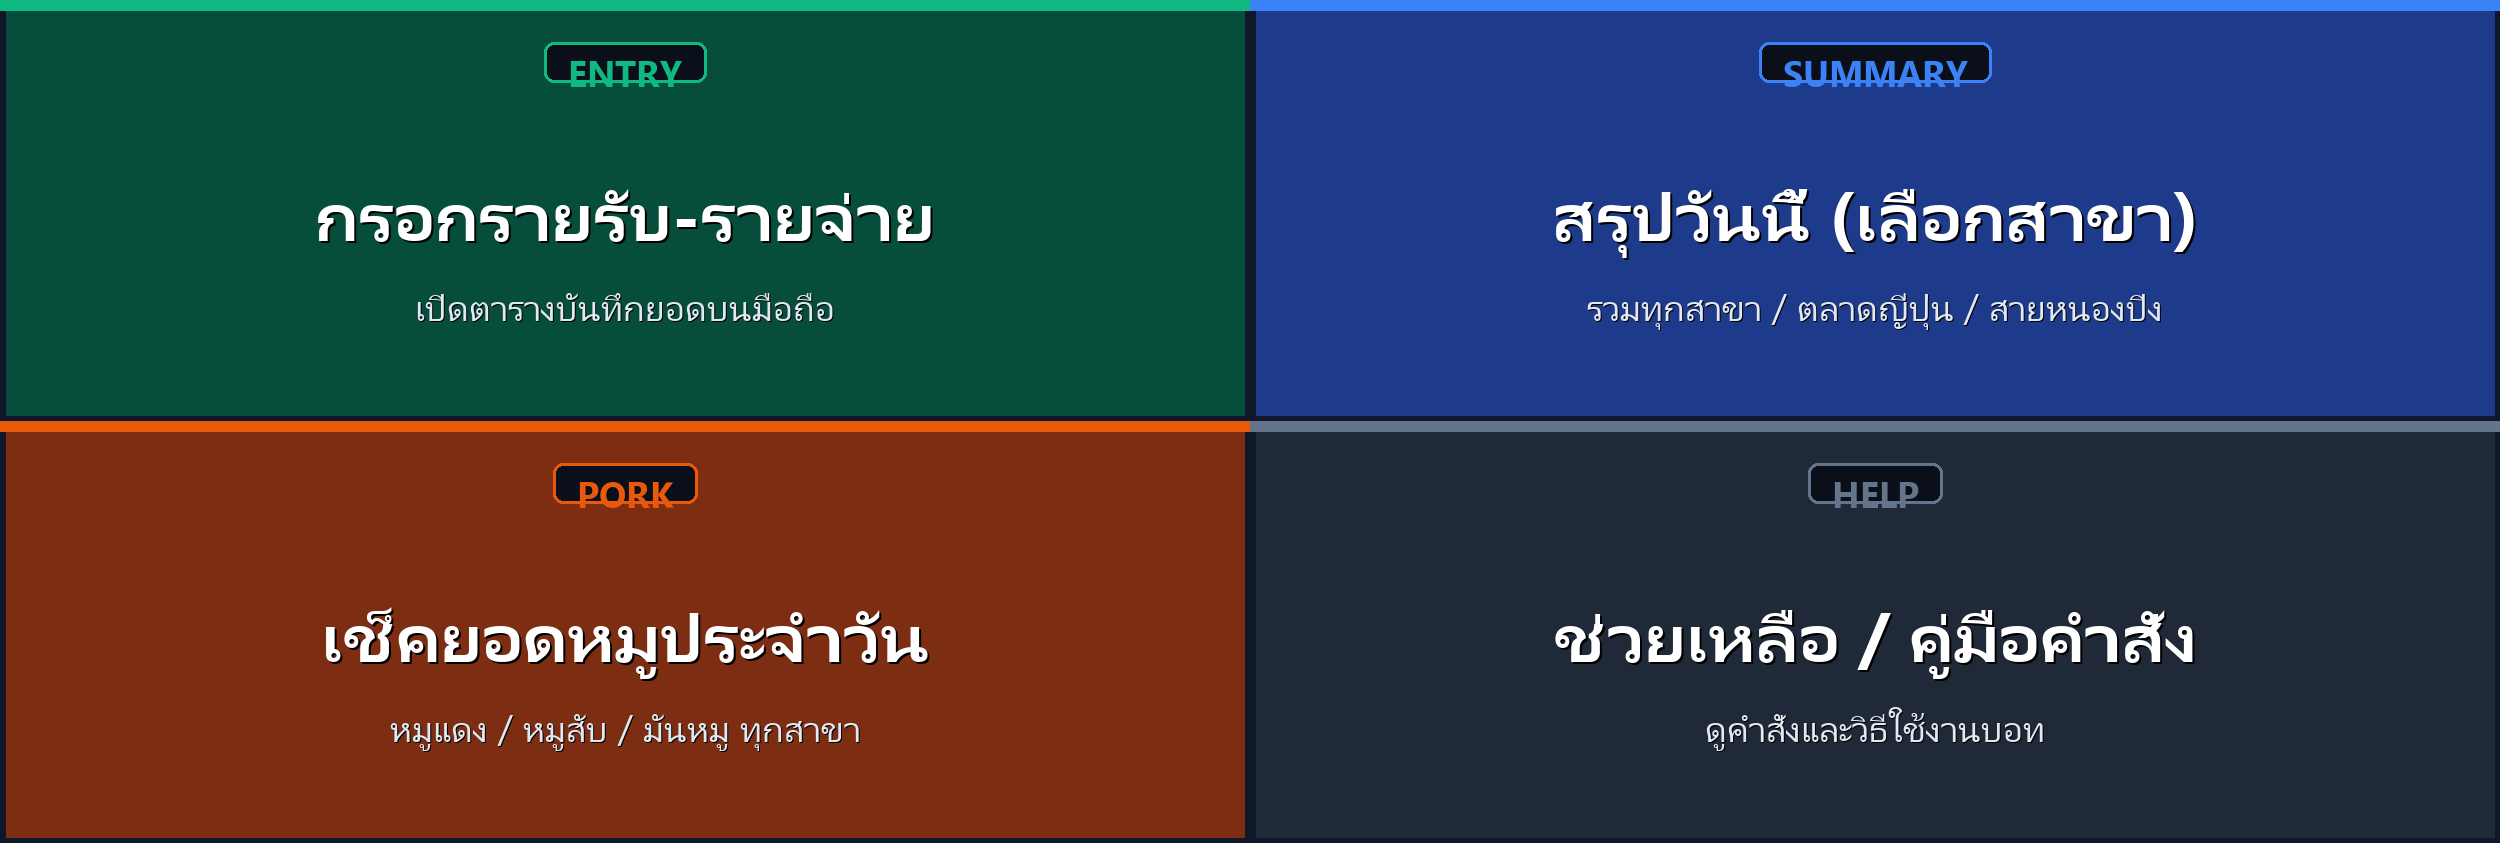
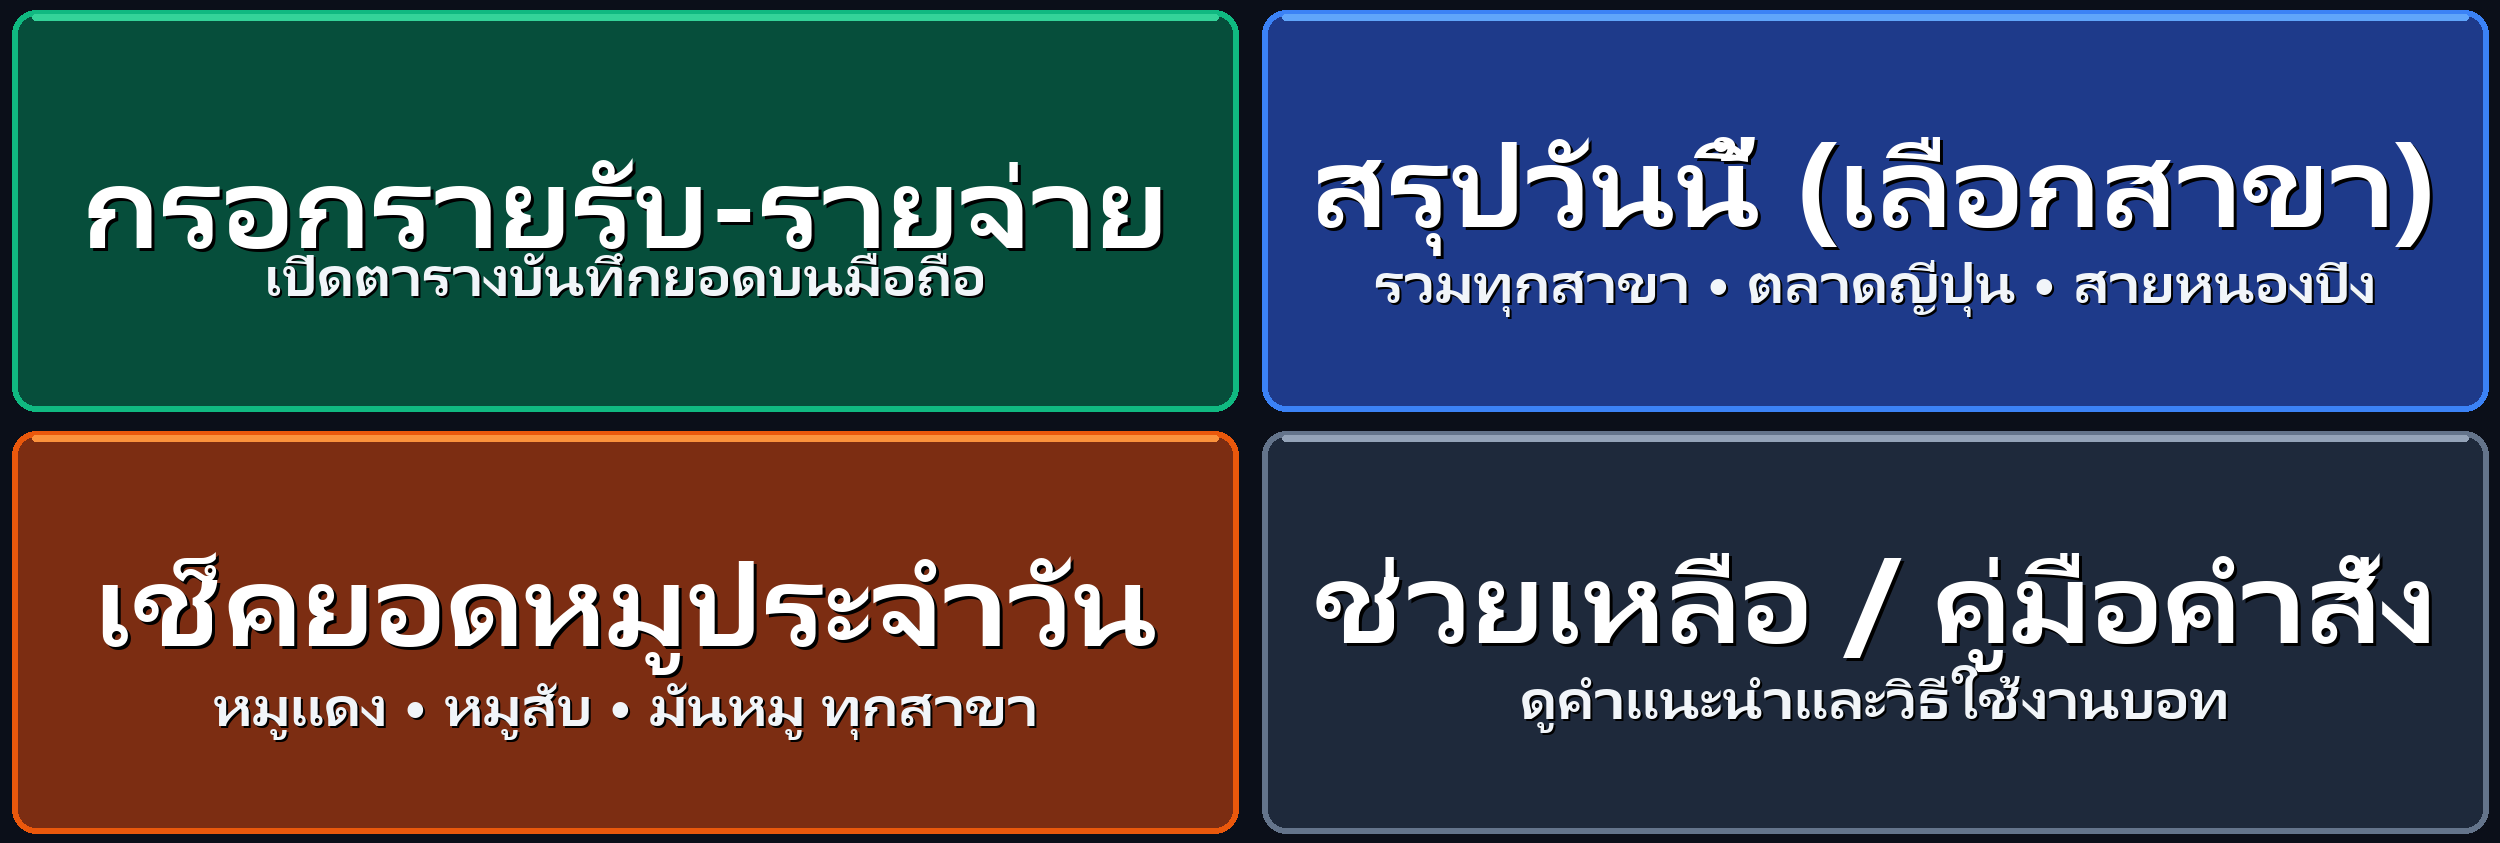
feat(richmenu): enlarge typography and tighten button frame fit

Changed region(s): [[0.0, 0.0, 1.0, 1.0]]

diff --git a/src/lib/services/line-richmenu.service.ts b/src/lib/services/line-richmenu.service.ts
@@ -14,7 +14,7 @@ export function getRichMenuDefinition() {
   return {
     size: { width: 2500, height: 843 },
     selected: true,
-    name: "ร้านครูตอม Main Menu v5 (Branch Selector)",
+    name: "ร้านครูตอม Main Menu v6 (Large Font Grid)",
     chatBarText: "📌 เมนูร้านครูตอม",
     areas: [
       // Tile 1: 📝 กรอกรายรับ-รายจ่าย (Top Left)

diff --git a/scripts/generate-richmenu.py b/scripts/generate-richmenu.py
@@ -11,33 +11,33 @@ def generate_rich_menu_image(output_path='public/richmenu.png'):
         {
             'title': 'กรอกรายรับ-รายจ่าย',
             'sub': 'เปิดตารางบันทึกยอดบนมือถือ',
-            'badge': 'ENTRY',
             'bg': '#064e3b',
-            'accent': '#10b981',
+            'border': '#10b981',
+            'accent': '#34d399',
             'col': 0, 'row': 0
         },
         {
             'title': 'สรุปวันนี้ (เลือกสาขา)',
-            'sub': 'รวมทุกสาขา / ตลาดญี่ปุ่น / สายหนองปิง',
-            'badge': 'SUMMARY',
+            'sub': 'รวมทุกสาขา • ตลาดญี่ปุ่น • สายหนองปิง',
             'bg': '#1e3a8a',
-            'accent': '#3b82f6',
+            'border': '#3b82f6',
+            'accent': '#60a5fa',
             'col': 1, 'row': 0
         },
         {
             'title': 'เช็คยอดหมูประจำวัน',
-            'sub': 'หมูแดง / หมูสับ / มันหมู ทุกสาขา',
-            'badge': 'PORK',
+            'sub': 'หมูแดง • หมูสับ • มันหมู ทุกสาขา',
             'bg': '#7c2d12',
-            'accent': '#ea580c',
+            'border': '#ea580c',
+            'accent': '#fb923c',
             'col': 0, 'row': 1
         },
         {
             'title': 'ช่วยเหลือ / คู่มือคำสั่ง',
-            'sub': 'ดูคำสั่งและวิธีใช้งานบอท',
-            'badge': 'HELP',
-            'bg': '#1f2937',
-            'accent': '#64748b',
+            'sub': 'ดูคำแนะนำและวิธีใช้งานบอท',
+            'bg': '#1e293b',
+            'border': '#64748b',
+            'accent': '#94a3b8',
             'col': 1, 'row': 1
         }
     ]
@@ -49,56 +49,59 @@ def generate_rich_menu_image(output_path='public/richmenu.png'):
     if not os.path.exists(font_path_bold):
         font_path_bold = 'C:/Windows/Fonts/tahomabd.ttf'
 
-    font_path_reg = 'C:/Windows/Fonts/LeelawUI.ttf'
-    if not os.path.exists(font_path_reg):
-        font_path_reg = 'C:/Windows/Fonts/tahoma.ttf'
-
-    f_badge = ImageFont.truetype(font_path_bold, 36)
-    f_title = ImageFont.truetype(font_path_bold, 70)
-    f_sub = ImageFont.truetype(font_path_reg, 38)
+    # Prominent headline typography fitting button frames
+    f_title = ImageFont.truetype(font_path_bold, 122)
+    f_sub = ImageFont.truetype(font_path_bold, 58)
 
     for t in tiles:
         x1 = col_x[t['col']]
         x2 = col_x[t['col'] + 1]
         y1 = row_y[t['row']]
         y2 = row_y[t['row'] + 1]
-        cx = (x1 + x2) // 2
 
-        # Tile background
-        draw.rectangle([x1, y1, x2, y2], fill=t['bg'], outline='#0f172a', width=6)
-        
-        # Accent top bar
-        draw.rectangle([x1, y1, x2, y1 + 10], fill=t['accent'])
+        # Inset padding to give clean button frames
+        pad_x = 12
+        pad_y = 10
+        bx1 = x1 + pad_x
+        bx2 = x2 - pad_x
+        by1 = y1 + pad_y
+        by2 = y2 - pad_y
+        cx = (bx1 + bx2) // 2
 
-        # 1. Badge
-        b_text = t['badge']
-        bbox_b = draw.textbbox((0, 0), b_text, font=f_badge)
-        bw = bbox_b[2] - bbox_b[0]
-        bh = bbox_b[3] - bbox_b[1]
-        by1 = y1 + 42
-        bx1 = cx - bw // 2 - 24
-        bx2 = cx + bw // 2 + 24
-        by2 = by1 + bh + 14
-        draw.rounded_rectangle([bx1, by1, bx2, by2], radius=10, fill='#0b0f19', outline=t['accent'], width=3)
-        draw.text((cx - bw // 2, by1 + 6), b_text, fill=t['accent'], font=f_badge)
+        # Draw button card with rounded corners and border
+        draw.rounded_rectangle([bx1, by1, bx2, by2], radius=24, fill=t['bg'], outline=t['border'], width=6)
 
-        # 2. Title
+        # Top accent highlight bar inside button card
+        draw.rounded_rectangle([bx1 + 20, by1 + 4, bx2 - 20, by1 + 10], radius=3, fill=t['accent'])
+
+        # Calculate bounding boxes
         bbox_t = draw.textbbox((0, 0), t['title'], font=f_title)
         tw = bbox_t[2] - bbox_t[0]
-        title_y = y1 + 165
-        draw.text((cx - tw // 2 + 2, title_y + 2), t['title'], fill='#000000', font=f_title)
-        draw.text((cx - tw // 2, title_y), t['title'], fill='#FFFFFF', font=f_title)
+        th = bbox_t[3] - bbox_t[1]
 
-        # 3. Subtitle
         bbox_s = draw.textbbox((0, 0), t['sub'], font=f_sub)
         sw = bbox_s[2] - bbox_s[0]
-        sub_y = y1 + 280
-        draw.text((cx - sw // 2 + 1, sub_y + 1), t['sub'], fill='#000000', font=f_sub)
-        draw.text((cx - sw // 2, sub_y), t['sub'], fill='#E2E8F0', font=f_sub)
+        sh = bbox_s[3] - bbox_s[1]
+
+        gap = 26
+        total_text_h = th + gap + sh
+
+        # Vertically center text in the button frame
+        start_y = by1 + (by2 - by1 - total_text_h) // 2 - 14
+        title_y = start_y
+        sub_y = title_y + th + gap
+
+        # Title with subtle shadow for contrast
+        draw.text((cx - tw // 2 + 3, title_y + 3), t['title'], fill='#000000', font=f_title)
+        draw.text((cx - tw // 2, title_y), t['title'], fill='#FFFFFF', font=f_title)
+
+        # Subtitle with subtle shadow for contrast
+        draw.text((cx - sw // 2 + 2, sub_y + 2), t['sub'], fill='#000000', font=f_sub)
+        draw.text((cx - sw // 2, sub_y), t['sub'], fill='#F1F5F9', font=f_sub)
 
     os.makedirs(os.path.dirname(output_path), exist_ok=True)
     img.save(output_path, 'PNG', optimize=True)
-    print(f"Generated 4-tile compact {output_path}: {img.size} ({os.path.getsize(output_path)} bytes)")
+    print(f"Generated large-font 4-tile {output_path}: {img.size} ({os.path.getsize(output_path)} bytes)")
 
 if __name__ == '__main__':
     generate_rich_menu_image()
